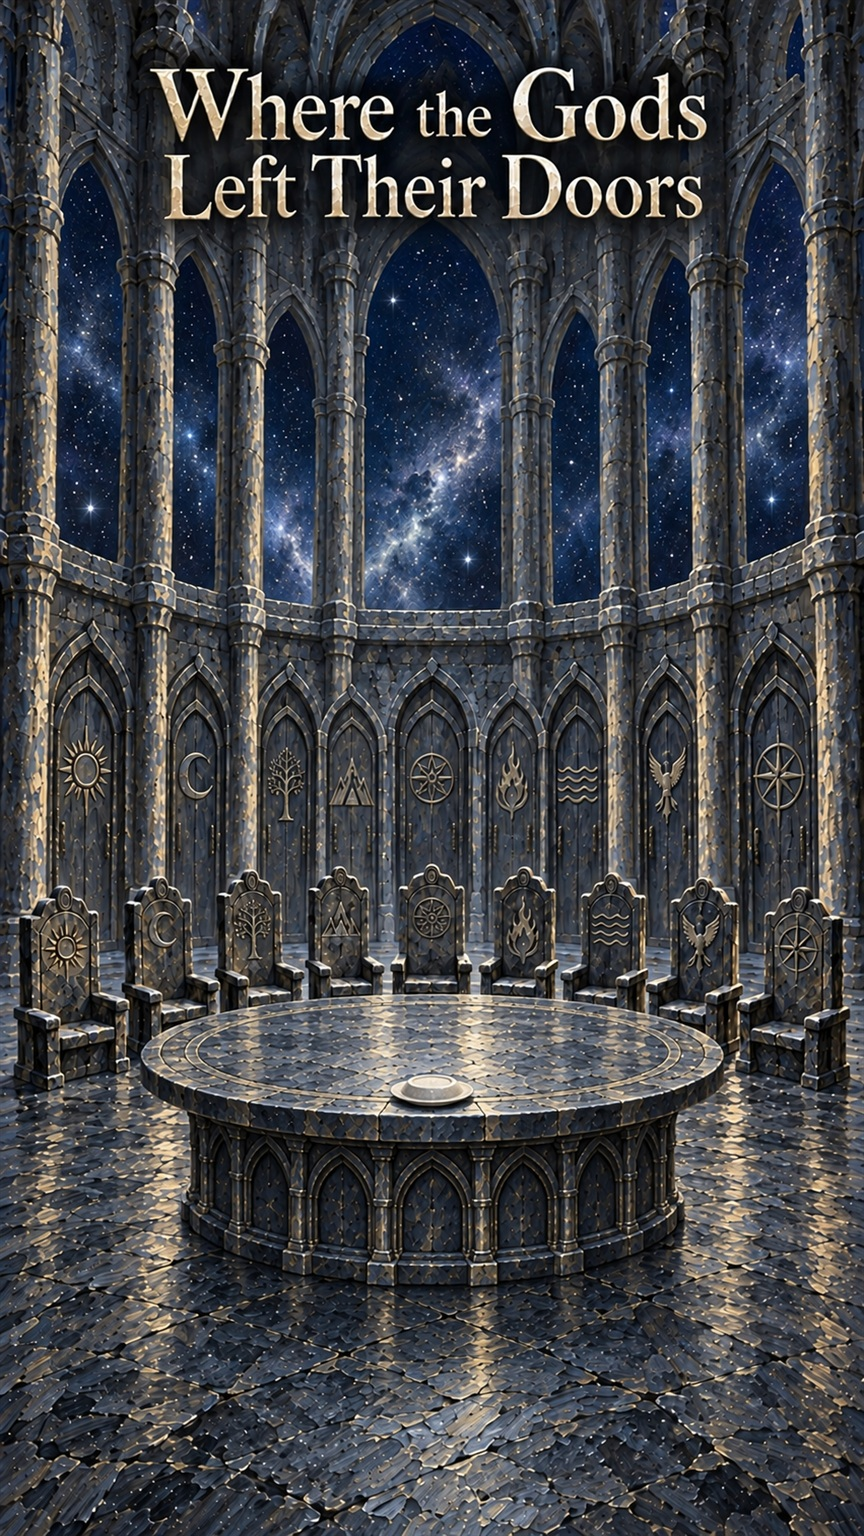
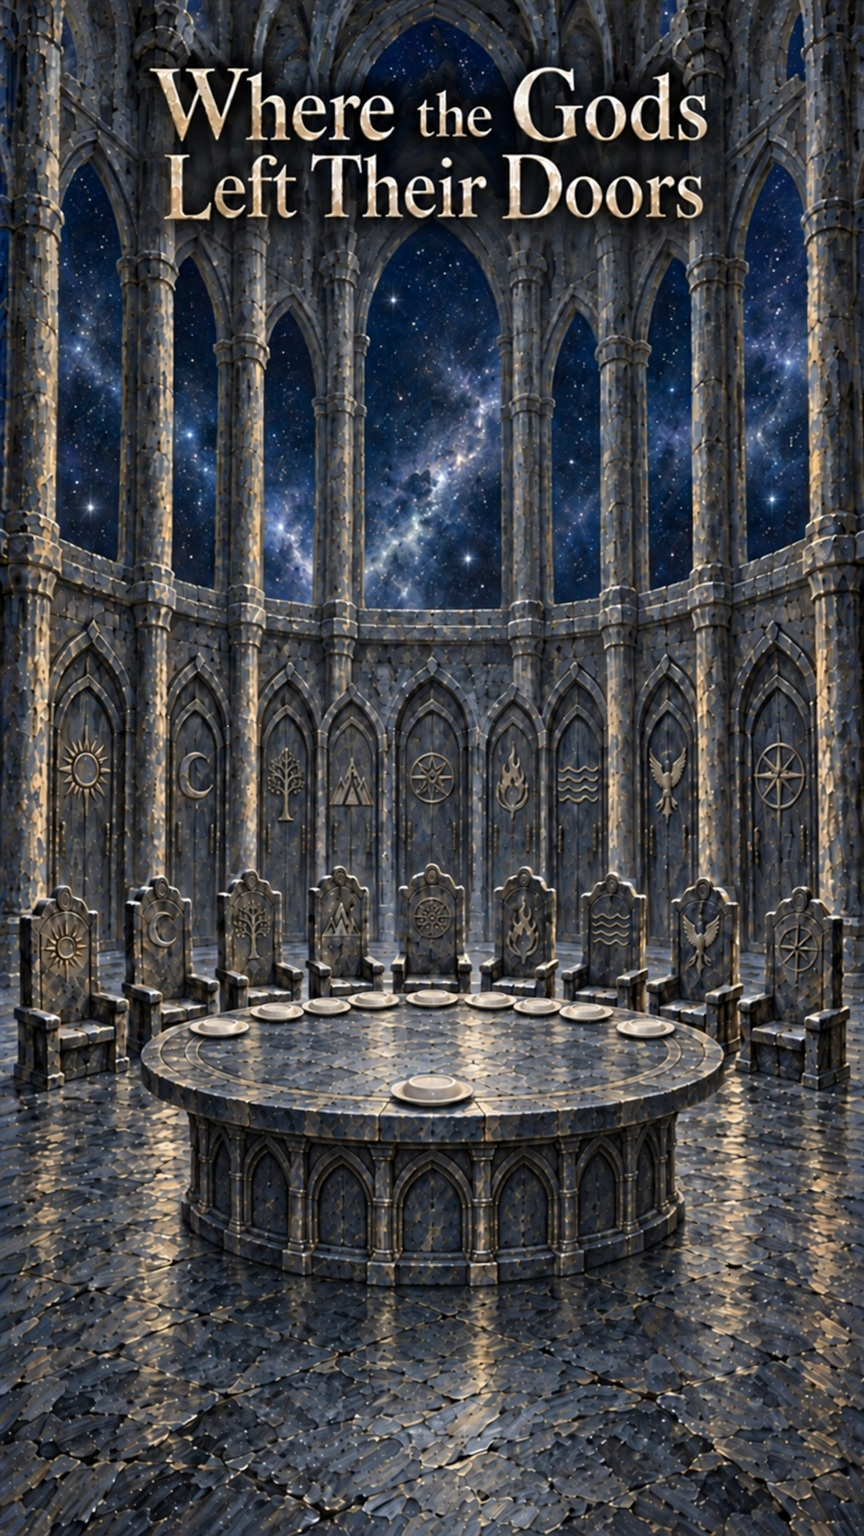
Correct ten place settings on divine hall cover

diff --git a/stories/where-the-gods-left-their-doors/notes.md b/stories/where-the-gods-left-their-doors/notes.md
@@ -92,3 +92,7 @@ The user next asked to remove the table and people from the cover, put a door be
 The prose was adjusted locally to place a closed, marked door behind each of the Nine's seats, make the table round with a mortal near curve, place the hearth at one side of the hall, and show stars through the high arches without wind entering. An independent reader read the changed passage in the context of the complete story and inspected the cover. It found the hall and cover in agreement and no material route, pacing, or character problem; the omitted hearth, benches, and extra plates on the cover are selective framing. The story's larger structure and cross-realm references were not changed. The finished prose and cover were rated again under the AO3 categories: General still applies, and `ratings.md` now describes the actual cover.
 
 At the user's request, the coordinator audited the whole story against the saved cover. The table's prose color was made neutral stone, and the named chair carvings now match three visible cover marks (crescent, branching tree, spread-wing bird). An attempted cover variant with more plates did not reliably show all nine divine settings, so it was not selected; the one upside-down human plate remains the cover's deliberate focus. The independent reader then checked the current whole story and saved cover again and found no material mismatch: the other plates, mortal benches, side hearth, and Storm Three arch are outside the cover's chosen frame, while the nine doors, chairs, round table, marks, and cosmic arches agree. The final selected image remains the centered round-table cover inspected at 864×1536.
+
+## 2026-09-29 — plate count correction
+
+The user correctly identified a mismatch the prior cover review had missed: the story lays nine divine places and a tenth, human place, while the shown image had only seven divine plates. The previous decision to treat missing plates as selective framing was mistaken for a fully visible table. The selected cover now shows nine individually countable pale plates along the far curve and one distinct plate at the near human place. The coordinator counted those ten in the saved 864×1536 JPEG and checked the whole hall passage against it: nine marked seats and matching closed doors, centered round table, cosmic sky through high arches, no banners or people. The side hearth and mortal benches are outside the image's chosen view. No prose change was needed. The AO3 review of the finished prose and corrected cover remains General; the ten empty settings add no new intensity or content note.

diff --git a/stories/where-the-gods-left-their-doors/prompt.md b/stories/where-the-gods-left-their-doors/prompt.md
@@ -34,6 +34,8 @@
 
 > check all these changes against the prose of the story.
 
+> there are only 7 plates and based on the story there should be 9 for the gods + 1 for the humans; unless i miss read.
+
 ## Working direction
 
 - Audience and intensity: no audience or intensity was specified; begin with a General audience target and classify the finished prose and cover from their actual content.
